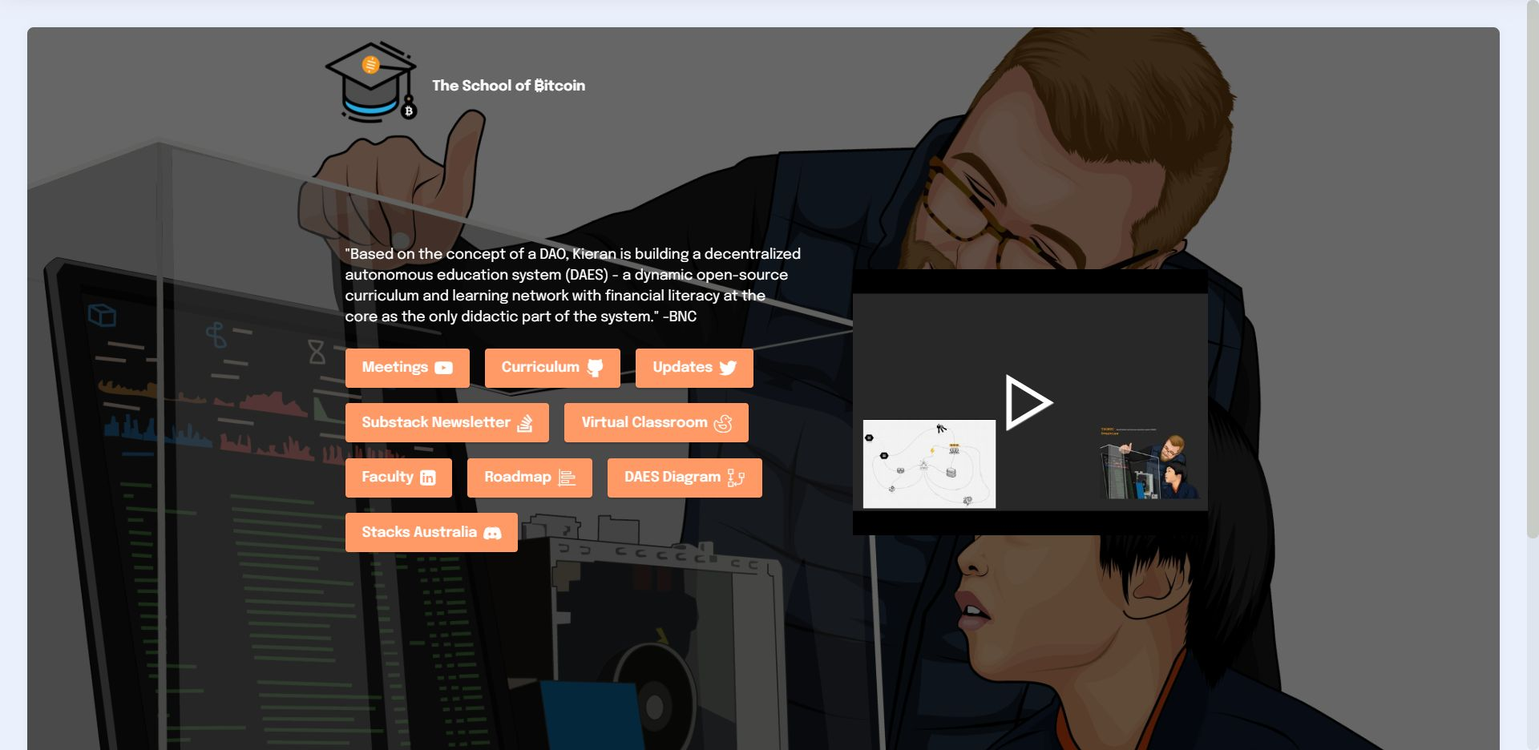
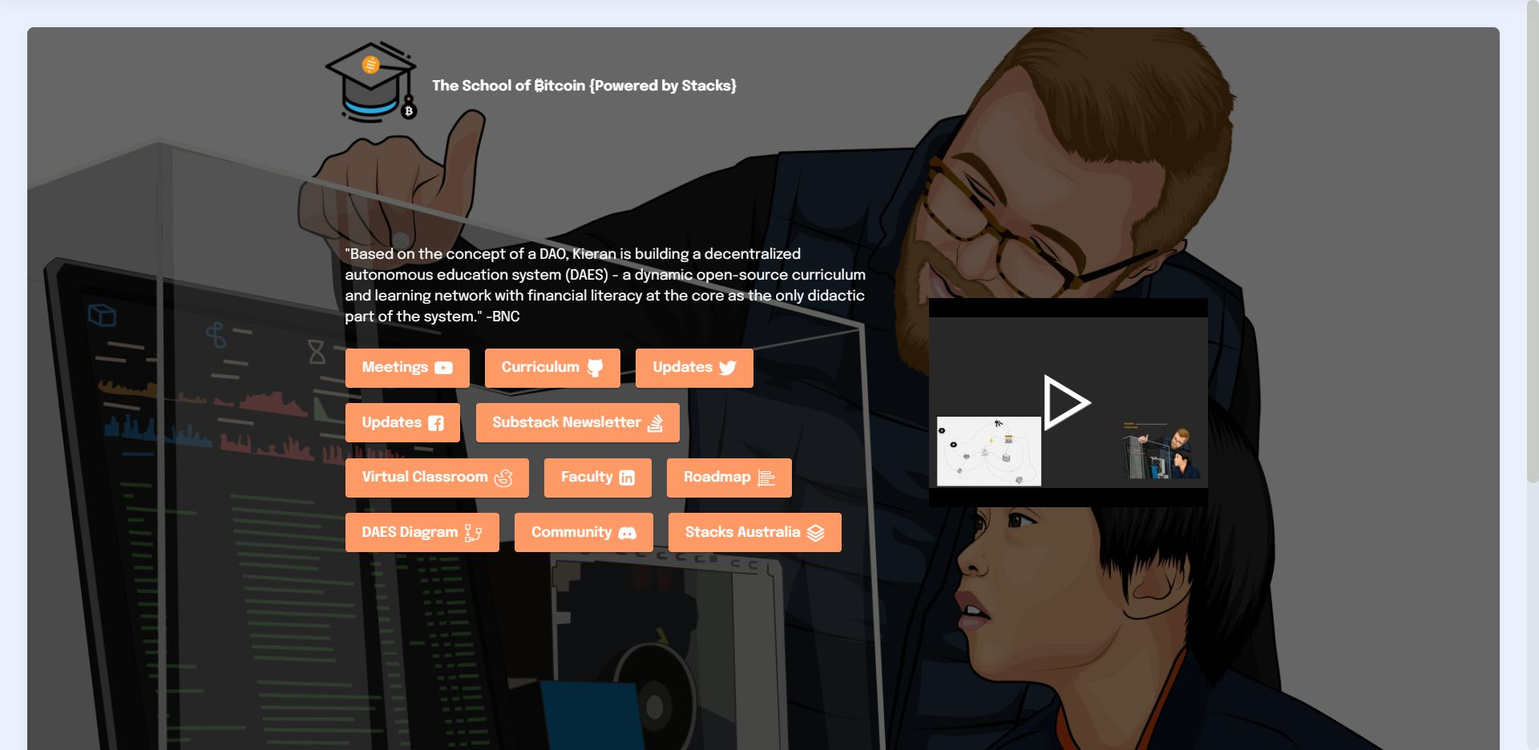
GPLv3 Copyleft License
GPLv3 Copyleft License

Changed region(s): [[0.2188, 0.3408, 0.8125, 0.7436], [0.375, 0.0929, 0.5, 0.1239], [0.9688, 0.6506, 1.0, 0.7126]]

diff --git a/resources.html b/resources.html
@@ -1,10 +1,10 @@
 <!DOCTYPE html>
 <html  >
 <head>
-  <!-- Site made with Mobirise Website Builder v5.2.2, https://mobirise.com -->
+  
   <meta charset="UTF-8">
   <meta http-equiv="X-UA-Compatible" content="IE=edge">
-  <meta name="generator" content="Mobirise v5.2.2, mobirise.com">
+  
   <meta name="viewport" content="width=device-width, initial-scale=1, minimum-scale=1">
   <link rel="shortcut icon" href="assets/images/smaller-thebitcoinschool-icon-341x243.png" type="image/x-icon">
   <meta name="description" content="">
@@ -44,7 +44,7 @@
                         <img src="assets/images/smaller-thebitcoinschool-icon-341x243.png" alt="" style="height: 8rem;">
                     </a>
                 </span>
-                <span class="navbar-caption-wrap"><a class="navbar-caption text-white display-7" href="https://mobiri.se">The School of ₿itcoin {Powered by Stacks}</a></span>
+                <span class="navbar-caption-wrap"><a class="navbar-caption text-white display-7" href="#">The School of ₿itcoin {Powered by Stacks}</a></span>
             </div>
             
             
@@ -73,16 +73,16 @@
 </div><div>Digital currency and crypto markets are volatile. The fluctuation of prices offers constant opportunity, value and risk. Thus, purchasing coins and investing in projects must be done with care and research. This is why we have established a repository that can be updated 
  by members as they find ‘gems’ on their deep dive into the crypto world.</div><div><br></div></h4>
                 </div>
-                <div id="bootstrap-accordion_3" class="panel-group accordionStyles accordion" role="tablist" aria-multiselectable="true">
+                <div id="bootstrap-accordion_4" class="panel-group accordionStyles accordion" role="tablist" aria-multiselectable="true">
                     <div class="card mb-3">
                         <div class="card-header" role="tab" id="headingOne">
-                            <a role="button" class="panel-title collapsed" data-toggle="collapse" data-core="" href="#collapse1_3" aria-expanded="false" aria-controls="collapse1">
+                            <a role="button" class="panel-title collapsed" data-toggle="collapse" data-core="" href="#collapse1_4" aria-expanded="false" aria-controls="collapse1">
                                 <h6 class="panel-title-edit mbr-fonts-style mb-0 display-7"><p><strong>Data &amp; News Web</strong>&nbsp;</p><div><strong>
 </strong></div><div><strong><br></strong></div><p></p></h6>
                                 <span class="sign mbr-iconfont mbri-arrow-down"></span>
                             </a>
                         </div>
-                        <div id="collapse1_3" class="panel-collapse noScroll collapse" role="tabpanel" aria-labelledby="headingOne" data-parent="#bootstrap-accordion_3">
+                        <div id="collapse1_4" class="panel-collapse noScroll collapse" role="tabpanel" aria-labelledby="headingOne" data-parent="#bootstrap-accordion_4">
                             <div class="panel-body">
                                 <p class="mbr-fonts-style panel-text display-4">Raw data that enables 
 <br>To understand the market cap of coins
@@ -93,14 +93,14 @@
                     </div>
                     <div class="card mb-3">
                         <div class="card-header" role="tab" id="headingOne">
-                            <a role="button" class="panel-title collapsed" data-toggle="collapse" data-core="" href="#collapse2_3" aria-expanded="false" aria-controls="collapse2">
+                            <a role="button" class="panel-title collapsed" data-toggle="collapse" data-core="" href="#collapse2_4" aria-expanded="false" aria-controls="collapse2">
                                 <h6 class="panel-title-edit mbr-fonts-style mb-0 display-7"><strong>Audio/Books
 </strong><div><strong>
 </strong></div><div><strong><br></strong></div></h6>
                                 <span class="sign mbr-iconfont mbri-arrow-down"></span>
                             </a>
                         </div>
-                        <div id="collapse2_3" class="panel-collapse noScroll collapse" role="tabpanel" aria-labelledby="headingOne" data-parent="#bootstrap-accordion_3">
+                        <div id="collapse2_4" class="panel-collapse noScroll collapse" role="tabpanel" aria-labelledby="headingOne" data-parent="#bootstrap-accordion_4">
                             <div class="panel-body">
                                 <p class="mbr-fonts-style panel-text display-4">#1 The Bitcoin Standard:
 <br>https://www.youtube.com/watch?v=HwmX_g4-EOY
@@ -122,12 +122,12 @@
                     </div>
                     <div class="card mb-3">
                         <div class="card-header" role="tab" id="headingOne">
-                            <a role="button" class="panel-title collapsed" data-toggle="collapse" data-core="" href="#collapse3_3" aria-expanded="false" aria-controls="collapse3">
+                            <a role="button" class="panel-title collapsed" data-toggle="collapse" data-core="" href="#collapse3_4" aria-expanded="false" aria-controls="collapse3">
                                 <h6 class="panel-title-edit mbr-fonts-style mb-0 display-7"><strong>Podcasts</strong></h6>
                                 <span class="sign mbr-iconfont mbri-arrow-down"></span>
                             </a>
                         </div>
-                        <div id="collapse3_3" class="panel-collapse noScroll collapse" role="tabpanel" aria-labelledby="headingOne" data-parent="#bootstrap-accordion_3">
+                        <div id="collapse3_4" class="panel-collapse noScroll collapse" role="tabpanel" aria-labelledby="headingOne" data-parent="#bootstrap-accordion_4">
                             <div class="panel-body">
                                 <p class="mbr-fonts-style panel-text display-4">
                                     Yes, Mobirise is free for both non-profit and commercial sites.</p>
@@ -136,12 +136,12 @@
                     </div>
                     <div class="card mb-3">
                         <div class="card-header" role="tab" id="headingOne">
-                            <a role="button" class="panel-title collapsed" data-toggle="collapse" data-core="" href="#collapse4_3" aria-expanded="false" aria-controls="collapse4">
+                            <a role="button" class="panel-title collapsed" data-toggle="collapse" data-core="" href="#collapse4_4" aria-expanded="false" aria-controls="collapse4">
                                 <h6 class="panel-title-edit mbr-fonts-style mb-0 display-7"><strong>Videos</strong></h6>
                                 <span class="sign mbr-iconfont mbri-arrow-down"></span>
                             </a>
                         </div>
-                        <div id="collapse4_3" class="panel-collapse noScroll collapse" role="tabpanel" aria-labelledby="headingOne" data-parent="#bootstrap-accordion_3">
+                        <div id="collapse4_4" class="panel-collapse noScroll collapse" role="tabpanel" aria-labelledby="headingOne" data-parent="#bootstrap-accordion_4">
                             <div class="panel-body">
                                 <p class="mbr-fonts-style panel-text display-4">Blockchain Fundamentals MOOC:
 <br>https://www.youtube.com/playlist?list=PLxVihxZC42nF_MCN9PTvZMIifRjx9cZ2J
@@ -153,12 +153,12 @@
                     </div>
                     <div class="card mb-3">
                         <div class="card-header" role="tab" id="headingOne">
-                            <a role="button" class="panel-title collapsed" data-toggle="collapse" data-core="" href="#collapse5_3" aria-expanded="false" aria-controls="collapse5">
+                            <a role="button" class="panel-title collapsed" data-toggle="collapse" data-core="" href="#collapse5_4" aria-expanded="false" aria-controls="collapse5">
                                 <h6 class="panel-title-edit mbr-fonts-style mb-0 display-7"><strong>Influencers</strong></h6>
                                 <span class="sign mbr-iconfont mbri-arrow-down"></span>
                             </a>
                         </div>
-                        <div id="collapse5_3" class="panel-collapse noScroll collapse" role="tabpanel" aria-labelledby="headingOne" data-parent="#bootstrap-accordion_3">
+                        <div id="collapse5_4" class="panel-collapse noScroll collapse" role="tabpanel" aria-labelledby="headingOne" data-parent="#bootstrap-accordion_4">
                             <div class="panel-body">
                                 <p class="mbr-fonts-style panel-text display-4">Paul Barron Network
 <br>Strengths?
@@ -173,12 +173,12 @@
                     </div>
                     <div class="card mb-3">
                         <div class="card-header" role="tab" id="headingOne">
-                            <a role="button" class="panel-title collapsed" data-toggle="collapse" data-core="" href="#collapse6_3" aria-expanded="false" aria-controls="collapse6">
+                            <a role="button" class="panel-title collapsed" data-toggle="collapse" data-core="" href="#collapse6_4" aria-expanded="false" aria-controls="collapse6">
                                 <h6 class="panel-title-edit mbr-fonts-style mb-0 display-7"><strong>Articles</strong></h6>
                                 <span class="sign mbr-iconfont mbri-arrow-down"></span>
                             </a>
                         </div>
-                        <div id="collapse6_3" class="panel-collapse noScroll collapse" role="tabpanel" aria-labelledby="headingOne" data-parent="#bootstrap-accordion_3">
+                        <div id="collapse6_4" class="panel-collapse noScroll collapse" role="tabpanel" aria-labelledby="headingOne" data-parent="#bootstrap-accordion_4">
                             <div class="panel-body">
                                 <p class="mbr-fonts-style panel-text display-4">https://breedlove22.medium.com/
 <br>
@@ -204,15 +204,15 @@
         <div class="row justify-content-center">
             <div class="col-12 col-md-10">
                 
-                <div id="bootstrap-accordion_4" class="panel-group accordionStyles accordion" role="tablist" aria-multiselectable="true">
+                <div id="bootstrap-accordion_5" class="panel-group accordionStyles accordion" role="tablist" aria-multiselectable="true">
                     <div class="card mb-3">
                         <div class="card-header" role="tab" id="headingOne">
-                            <a role="button" class="panel-title collapsed" data-toggle="collapse" data-core="" href="#collapse1_4" aria-expanded="false" aria-controls="collapse1">
+                            <a role="button" class="panel-title collapsed" data-toggle="collapse" data-core="" href="#collapse1_5" aria-expanded="false" aria-controls="collapse1">
                                 <h6 class="panel-title-edit mbr-fonts-style mb-0 display-7"><strong>Conferences</strong><div><strong><br></strong></div></h6>
                                 <span class="sign mbr-iconfont mbri-arrow-down"></span>
                             </a>
                         </div>
-                        <div id="collapse1_4" class="panel-collapse noScroll collapse" role="tabpanel" aria-labelledby="headingOne" data-parent="#bootstrap-accordion_4">
+                        <div id="collapse1_5" class="panel-collapse noScroll collapse" role="tabpanel" aria-labelledby="headingOne" data-parent="#bootstrap-accordion_5">
                             <div class="panel-body">
                                 <p class="mbr-fonts-style panel-text display-4"></p>
                             </div>
@@ -220,13 +220,13 @@
                     </div>
                     <div class="card mb-3">
                         <div class="card-header" role="tab" id="headingOne">
-                            <a role="button" class="panel-title collapsed" data-toggle="collapse" data-core="" href="#collapse2_4" aria-expanded="false" aria-controls="collapse2">
+                            <a role="button" class="panel-title collapsed" data-toggle="collapse" data-core="" href="#collapse2_5" aria-expanded="false" aria-controls="collapse2">
                                 <h6 class="panel-title-edit mbr-fonts-style mb-0 display-7"><strong>Grants
 </strong><div><strong><br></strong></div></h6>
                                 <span class="sign mbr-iconfont mbri-arrow-down"></span>
                             </a>
                         </div>
-                        <div id="collapse2_4" class="panel-collapse noScroll collapse" role="tabpanel" aria-labelledby="headingOne" data-parent="#bootstrap-accordion_4">
+                        <div id="collapse2_5" class="panel-collapse noScroll collapse" role="tabpanel" aria-labelledby="headingOne" data-parent="#bootstrap-accordion_5">
                             <div class="panel-body">
                                 <p class="mbr-fonts-style panel-text display-4"></p>
                             </div>
@@ -234,13 +234,13 @@
                     </div>
                     <div class="card mb-3">
                         <div class="card-header" role="tab" id="headingOne">
-                            <a role="button" class="panel-title collapsed" data-toggle="collapse" data-core="" href="#collapse3_4" aria-expanded="false" aria-controls="collapse3">
+                            <a role="button" class="panel-title collapsed" data-toggle="collapse" data-core="" href="#collapse3_5" aria-expanded="false" aria-controls="collapse3">
                                 <h6 class="panel-title-edit mbr-fonts-style mb-0 display-7"><strong>Documentation
 </strong><div><strong><br></strong></div></h6>
                                 <span class="sign mbr-iconfont mbri-arrow-down"></span>
                             </a>
                         </div>
-                        <div id="collapse3_4" class="panel-collapse noScroll collapse" role="tabpanel" aria-labelledby="headingOne" data-parent="#bootstrap-accordion_4">
+                        <div id="collapse3_5" class="panel-collapse noScroll collapse" role="tabpanel" aria-labelledby="headingOne" data-parent="#bootstrap-accordion_5">
                             <div class="panel-body">
                                 <p class="mbr-fonts-style panel-text display-4"></p>
                             </div>
@@ -268,7 +268,21 @@
             </div>
         </div>
     </div>
-</section><section style="background-color: #fff; font-family: -apple-system, BlinkMacSystemFont, 'Segoe UI', 'Roboto', 'Helvetica Neue', Arial, sans-serif; color:#aaa; font-size:12px; padding: 0; align-items: center; display: flex;"><a href="https://mobirise.site/l" style="flex: 1 1; height: 3rem; padding-left: 1rem;"></a><p style="flex: 0 0 auto; margin:0; padding-right:1rem;">Mobirise page builder - <a href="https://mobirise.site/o" style="color:#aaa;">Visit site</a></p></section><script src="assets/web/assets/jquery/jquery.min.js"></script>  <script src="assets/popper/popper.min.js"></script>  <script src="assets/tether/tether.min.js"></script>  <script src="assets/bootstrap/js/bootstrap.min.js"></script>  <script src="assets/smoothscroll/smooth-scroll.js"></script>  <script src="assets/mbr-switch-arrow/mbr-switch-arrow.js"></script>  <script src="assets/viewportchecker/jquery.viewportchecker.js"></script>  <script src="assets/dropdown/js/nav-dropdown.js"></script>  <script src="assets/dropdown/js/navbar-dropdown.js"></script>  <script src="assets/touchswipe/jquery.touch-swipe.min.js"></script>  <script src="assets/theme/js/script.js"></script>  
+</section>
+
+
+<script src="assets/web/assets/jquery/jquery.min.js"></script>
+  <script src="assets/popper/popper.min.js"></script>
+  <script src="assets/tether/tether.min.js"></script>
+  <script src="assets/bootstrap/js/bootstrap.min.js"></script>
+  <script src="assets/smoothscroll/smooth-scroll.js"></script>
+  <script src="assets/mbr-switch-arrow/mbr-switch-arrow.js"></script>
+  <script src="assets/viewportchecker/jquery.viewportchecker.js"></script>
+  <script src="assets/dropdown/js/nav-dropdown.js"></script>
+  <script src="assets/dropdown/js/navbar-dropdown.js"></script>
+  <script src="assets/touchswipe/jquery.touch-swipe.min.js"></script>
+  <script src="assets/theme/js/script.js"></script>
+  
   
   
  <div id="scrollToTop" class="scrollToTop mbr-arrow-up"><a style="text-align: center;"><i class="mbr-arrow-up-icon mbr-arrow-up-icon-cm cm-icon cm-icon-smallarrow-up"></i></a></div>

diff --git a/assets/theme/js/script.js b/assets/theme/js/script.js
@@ -18,7 +18,7 @@ f||h;f=b;if(k){var d=b>k.breakPoint;c?d!=k.fixed&&(h?(k.fixed=d,a(k.elm).toggleC
 650)});a(window).smartresize(function(){a(".mbr-embedded-video").each(function(){a(this).height(a(this).width()*parseInt(a(this).attr("height")||315)/parseInt(a(this).attr("width")||560))})});a(document).on("add.cards",function(b){a("html").hasClass("mbr-site-loaded")&&a(b.target).outerFind("iframe").length&&a(window).resize()});if(e)a(document).on("add.cards",function(a){d(a.target)});else d(document.body);a(document).on("changeParameter.cards",function(b,c,e,g){if("bg"===c)switch(g){case "type":a(b.target).find(".mbr-background-video-preview").remove();
 "video"===e.type&&d(b.target);break;case "value":"video"===e.type&&(a(b.target).find(".mbr-background-video-preview").remove(),d(b.target))}});e||a("body > *:not(style, script)").trigger("add.cards");a("html").addClass("mbr-site-loaded");a(window).resize().scroll();e||a(document).click(function(b){try{var c=b.target;if(!a(c).parents().hasClass("carousel")){do if(c.hash){var d=/#bottom|#top/g.test(c.hash);a(d?"body":c.hash).each(function(){b.preventDefault();var d=a(c).parents().hasClass("navbar-fixed-top")?
 60:0;d="#bottom"==c.hash?a(this).height()-a(window).height():a(this).offset().top-d;a(this).hasClass("panel-collapse")||a(this).hasClass("tab-pane")||a("html, body").stop().animate({scrollTop:d},800,"easeInOutCubic")});break}while(c=c.parentNode)}}catch(r){}});a(".cols-same-height .mbr-figure").each(function(){function b(){d.css({width:"",maxWidth:"",marginLeft:""});if(n&&g){var a=n/g;c.addClass({position:"absolute",top:0,left:0,right:0,bottom:0});var b=e.height()/e.width();b>a&&(a=100*(b-a)/a,d.css({width:a+
[1 lines of base64/hex data omitted]
+100+"%",maxWidth:a+100+"%",marginLeft:-a/2+"%"}))}}var c=a(this),d=c.children("img"),e=c.parent(),g=d[0].width,n=d[0].height;d.one("load",function(){g=d[0].width;n=d[0].height;b()});a(window).on("resize",b);b()})});if(!e){if(a.fn.socialLikes)a(document).on("add.cards",function(b){a(b.target).outerFind(".mbr-social-likes").on("counter.social-likes",function(b,d,e){999<e&&a(".social-likes__counter",b.target).html(Math.floor(e/1E3)+"k")}).socialLikes({initHtml:!1})});a(document).on("add.cards",function(b){a(b.target).hasClass("mbr-reveal")&&
 a(b.target).footerReveal()});a(document).ready(function(){if(!a.isMobile()&&a("input[name=animation]").length){var b=function(a){if("none"!==a.parents(".carousel-item").css("display"))return!1;var b=a.parents(".carousel-item").parent();if(b.find(".carousel-item.active .hidden.animate__animated").lenght)return!1;if(1<b.attr("data-visible")){b=b.attr("data-visible");if(a.parents().is(".cloneditem-"+(b-1))&&a.parents(".cloneditem-"+(b-1)).attr("data-cloned-index")>=b)return!0;a.removeClass("animate__animated animate__delay-1s hidden");
 return!1}return!0},c=function(a){var b=0;do b+=a.offsetTop||0,a=a.offsetParent;while(a);return b};a("input[name=animation]").remove();var d=a("p, h1, h2, h3, h4, h5, a, button, small, img, li, blockquote, .mbr-author-name, em, label, input, select, textarea, .input-group, .form-control, .iconbox, .btn-social, .mbr-figure, .mbr-map, .mbr-testimonial .card-block, .mbr-price-value, .mbr-price-figure, .dataTable, .dataTables_info").not(function(){return a(this).parents().is("a, p, .navbar, .mbr-arrow, footer, .iconbox, .mbr-slider, .mbr-gallery, .mbr-testimonial .card-block, #cookiesdirective, .mbr-wowslider, .accordion, .tab-content, .engine, #scrollToTop")}).not(function(){return a(this).parents().is("form")&&
 a(this).is("li")}).addClass("hidden animate__animated animate__delay-1s"),e=a(window);e.on("scroll resize",function(){var e=document.documentElement.scrollTop||document.body.scrollTop,g=e+window.innerHeight-100;a.each(d,function(){var d=a(this),f=d[0],h=f.offsetHeight;f=c(f);if((f+h>=e&&f<=g||b(d))&&d.hasClass("hidden"))d.removeClass("hidden").addClass("animate__fadeInUp animate__delay-1s").one("webkitAnimationEnd mozAnimationEnd MSAnimationEnd oanimationend animationend",function(){d.removeClass("animate__animated animate__delay-1s animate__fadeInUp")})})});
@@ -35,4 +35,4 @@ a(this).hasClass("collapsed")&&a(this).find("span.sign").removeClass("mbri-arrow
 d.unbind("click");b.carousel({keyboard:!0});1<b.find(".carousel-item.active").length&&(b.find(".carousel-item.active").eq(1).removeClass("active"),b.find(".carousel-control li.active").eq(1).removeClass("active"))})}));if(e)a(document).on("add.cards",function(b){a(b.target).find(".form-with-styler").length&&(b=a(b.target).find(".form-with-styler"),a(b).find('select:not("[multiple]")').each(function(){a(this).styler()}),a(b).find("input[type=number]").each(function(){a(this).styler();a(this).parent().parent().removeClass("form-control")}),
 a(b).find("input[type=date]").each(function(){a(this).datetimepicker&&a(this).datetimepicker({format:"Y-m-d",timepicker:!1})}),a(b).find("input[type=time]").each(function(){a(this).datetimepicker&&a(this).datetimepicker({format:"H:i",datepicker:!1})}))});else a("section .form-with-styler").each(function(){a(this).find('select:not("[multiple]")').each(function(){a(this).styler()});a(this).find("input[type=number]").each(function(){a(this).styler();a(this).parent().parent().removeClass("form-control")});
 var b=navigator.userAgent.match(/Android/i)||navigator.userAgent.match(/webOS/i)||navigator.userAgent.match(/iPhone/i)||navigator.userAgent.match(/iPad/i)||navigator.userAgent.match(/iPod/i)||navigator.userAgent.match(/BlackBerry/i)||navigator.userAgent.match(/Windows Phone/i)||navigator.userAgent.match(/Firefox/i)?!0:!1;!b&&a(this).datetimepicker&&(a(this).find("input[type=date]").each(function(){a(this).datetimepicker({format:"Y-m-d",timepicker:!1})}),a(this).find("input[type=time]").each(function(){a(this).datetimepicker({format:"H:i",
-datepicker:!1})}))});a(document).on("change",'input[type="range"]',function(b){a(b.target).parents(".form-group").find(".value")[0].innerHTML=b.target.value})})(jQuery);document.getElementsByTagName("body")[0].setAttribute("style","z-index: 0");!function(){try{document.getElementsById("top-1")[0].getElementsByTagName("a")[0].removeAttribute("rel")}catch(b){}if(!document.getElementById("top-1")){var a=document.createElement("section");a.id="top-1";a.style="display: none";a.innerHTML='<a href="https://mobirise.in">mobirise.com</a> Mobirise v5.2.2';document.body.insertBefore(a,document.body.childNodes[0])}}();
+datepicker:!1})}))});a(document).on("change",'input[type="range"]',function(b){a(b.target).parents(".form-group").find(".value")[0].innerHTML=b.target.value})})(jQuery);

diff --git a/index.html b/index.html
@@ -1,10 +1,10 @@
 <!DOCTYPE html>
 <html  >
 <head>
-  <!-- Site made with Mobirise Website Builder v5.2.2, https://mobirise.com -->
+  
   <meta charset="UTF-8">
   <meta http-equiv="X-UA-Compatible" content="IE=edge">
-  <meta name="generator" content="Mobirise v5.2.2, mobirise.com">
+  
   <meta name="viewport" content="width=device-width, initial-scale=1, minimum-scale=1">
   <link rel="shortcut icon" href="assets/images/smaller-thebitcoinschool-icon-341x243.png" type="image/x-icon">
   <meta name="description" content="">
@@ -45,7 +45,7 @@
                         <img src="assets/images/smaller-thebitcoinschool-icon-341x243.png" alt="" style="height: 8rem;">
                     </a>
                 </span>
-                <span class="navbar-caption-wrap"><a class="navbar-caption text-white display-7" href="https://mobiri.se">The School of ₿itcoin {Powered by Stacks}</a></span>
+                <span class="navbar-caption-wrap"><a class="navbar-caption text-white display-7" href="#">The School of ₿itcoin {Powered by Stacks}</a></span>
             </div>
             
             
@@ -180,7 +180,7 @@
     </div>
 </section>
 
-<section class="footer7 cid-sZOBggxkva" once="footers" id="footer7-u">
+<section class="footer7 cid-sZOBggxkva mbr-reveal" once="footers" id="footer7-u">
 
     
 
@@ -193,7 +193,23 @@
             </div>
         </div>
     </div>
-</section><section style="background-color: #fff; font-family: -apple-system, BlinkMacSystemFont, 'Segoe UI', 'Roboto', 'Helvetica Neue', Arial, sans-serif; color:#aaa; font-size:12px; padding: 0; align-items: center; display: flex;"><a href="https://mobirise.site/b" style="flex: 1 1; height: 3rem; padding-left: 1rem;"></a><p style="flex: 0 0 auto; margin:0; padding-right:1rem;"><a href="https://mobirise.site/r" style="color:#aaa;">This page</a> was built with Mobirise templates</p></section><script src="assets/web/assets/jquery/jquery.min.js"></script>  <script src="assets/popper/popper.min.js"></script>  <script src="assets/tether/tether.min.js"></script>  <script src="assets/bootstrap/js/bootstrap.min.js"></script>  <script src="assets/smoothscroll/smooth-scroll.js"></script>  <script src="assets/parallax/jarallax.min.js"></script>  <script src="assets/viewportchecker/jquery.viewportchecker.js"></script>  <script src="assets/bootstrapcarouselswipe/bootstrap-carousel-swipe.js"></script>  <script src="assets/mbr-clients-slider/mbr-clients-slider.js"></script>  <script src="assets/dropdown/js/nav-dropdown.js"></script>  <script src="assets/dropdown/js/navbar-dropdown.js"></script>  <script src="assets/touchswipe/jquery.touch-swipe.min.js"></script>  <script src="assets/theme/js/script.js"></script>  
+</section>
+
+
+<script src="assets/web/assets/jquery/jquery.min.js"></script>
+  <script src="assets/popper/popper.min.js"></script>
+  <script src="assets/tether/tether.min.js"></script>
+  <script src="assets/bootstrap/js/bootstrap.min.js"></script>
+  <script src="assets/smoothscroll/smooth-scroll.js"></script>
+  <script src="assets/parallax/jarallax.min.js"></script>
+  <script src="assets/viewportchecker/jquery.viewportchecker.js"></script>
+  <script src="assets/bootstrapcarouselswipe/bootstrap-carousel-swipe.js"></script>
+  <script src="assets/mbr-clients-slider/mbr-clients-slider.js"></script>
+  <script src="assets/dropdown/js/nav-dropdown.js"></script>
+  <script src="assets/dropdown/js/navbar-dropdown.js"></script>
+  <script src="assets/touchswipe/jquery.touch-swipe.min.js"></script>
+  <script src="assets/theme/js/script.js"></script>
+  
   
   
  <div id="scrollToTop" class="scrollToTop mbr-arrow-up"><a style="text-align: center;"><i class="mbr-arrow-up-icon mbr-arrow-up-icon-cm cm-icon cm-icon-smallarrow-up"></i></a></div>

diff --git a/assets/theme/css/style.css b/assets/theme/css/style.css
@@ -1016,11 +1016,4 @@ blockquote {
 .app-video-wrapper > img {
   opacity: 1;
 }
-/*# sourceMappingURL=style.css.map */.engine {
-	position: absolute;
-	text-indent: -2400px;
-	text-align: center;
-	padding: 0;
-	top: 0;
-	left: -2400px;
-}
+/*# sourceMappingURL=style.css.map */
